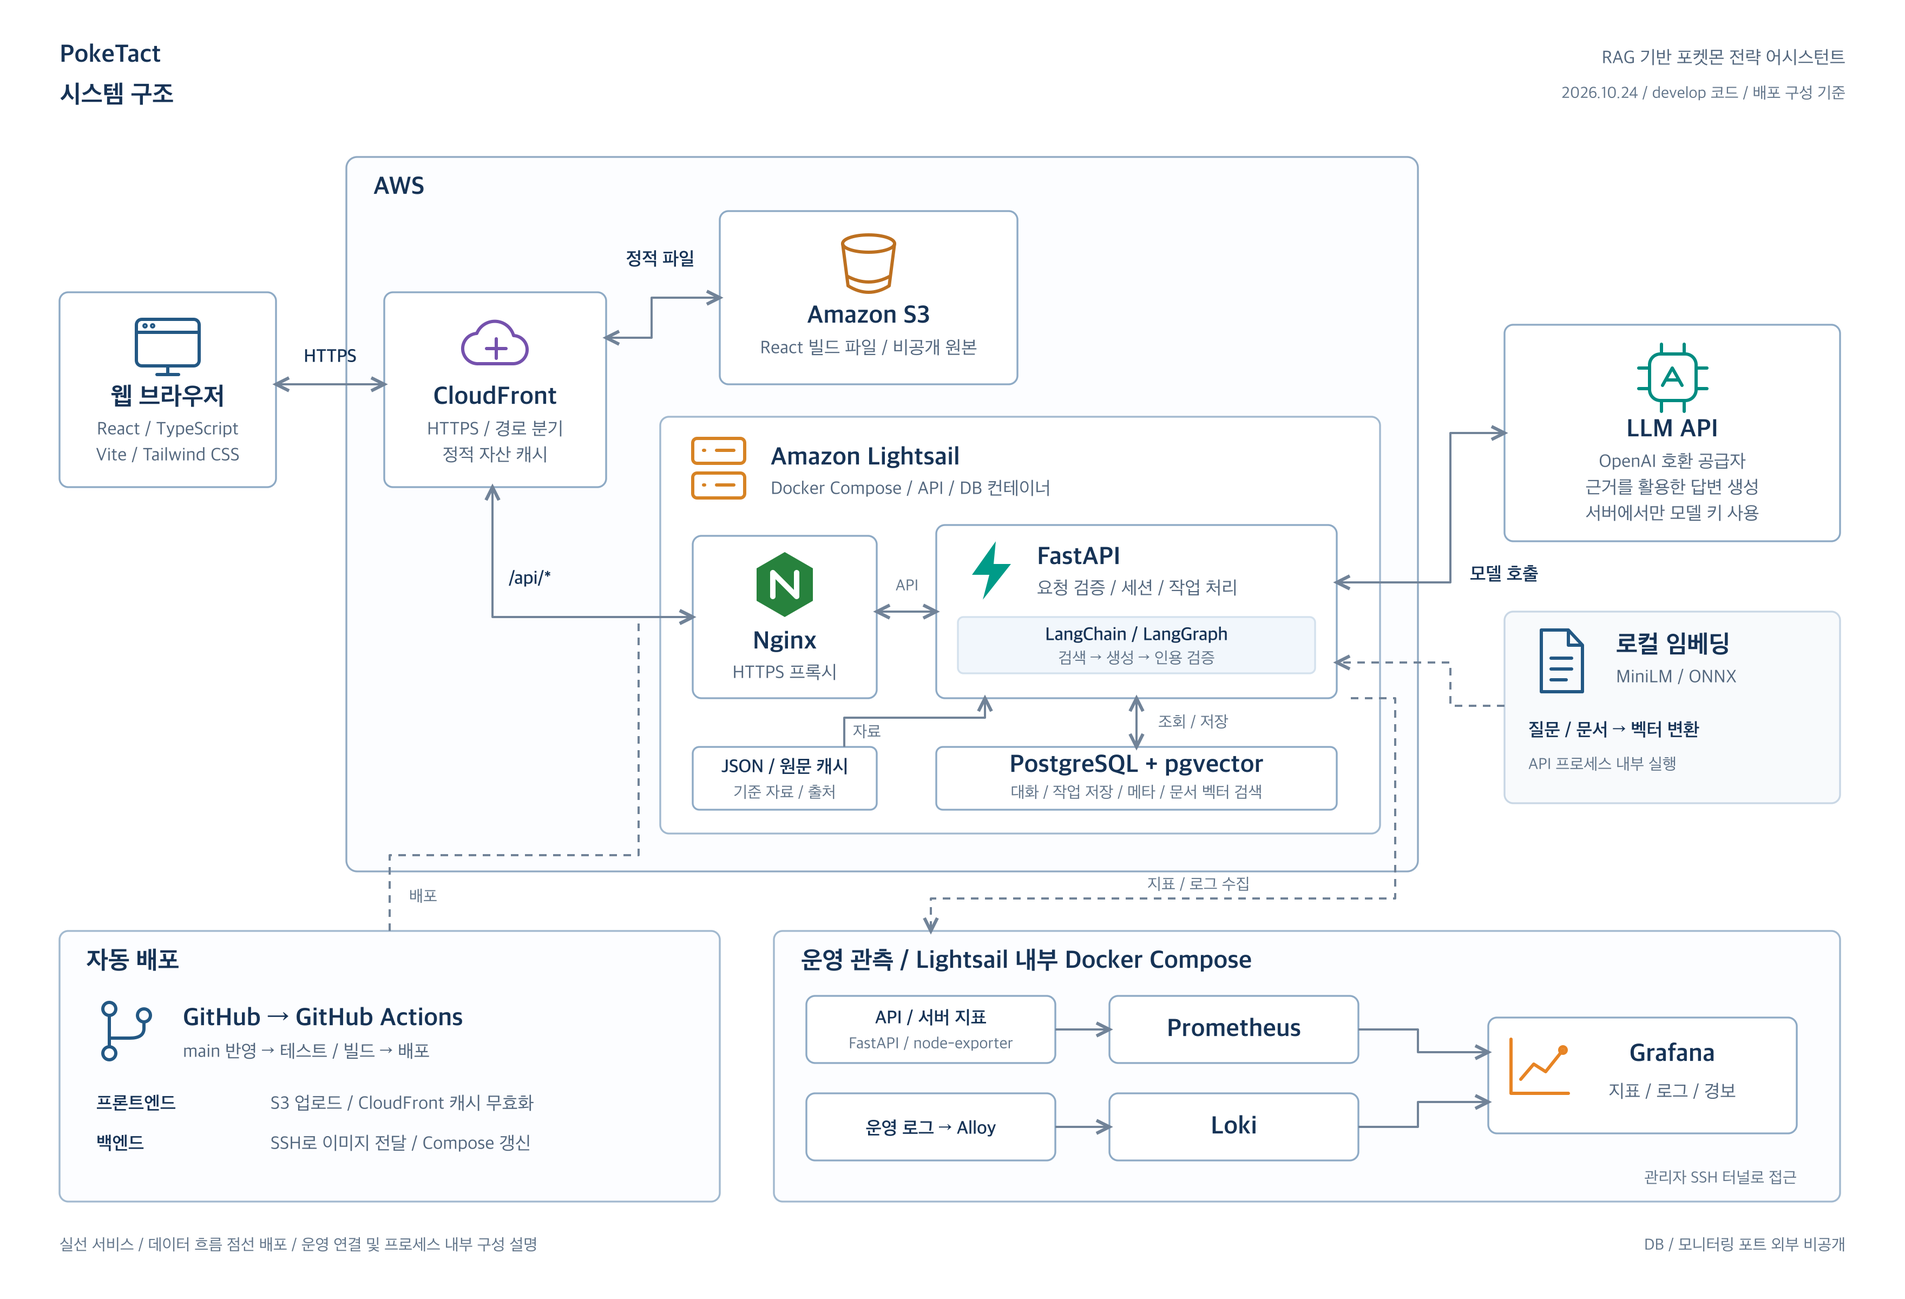
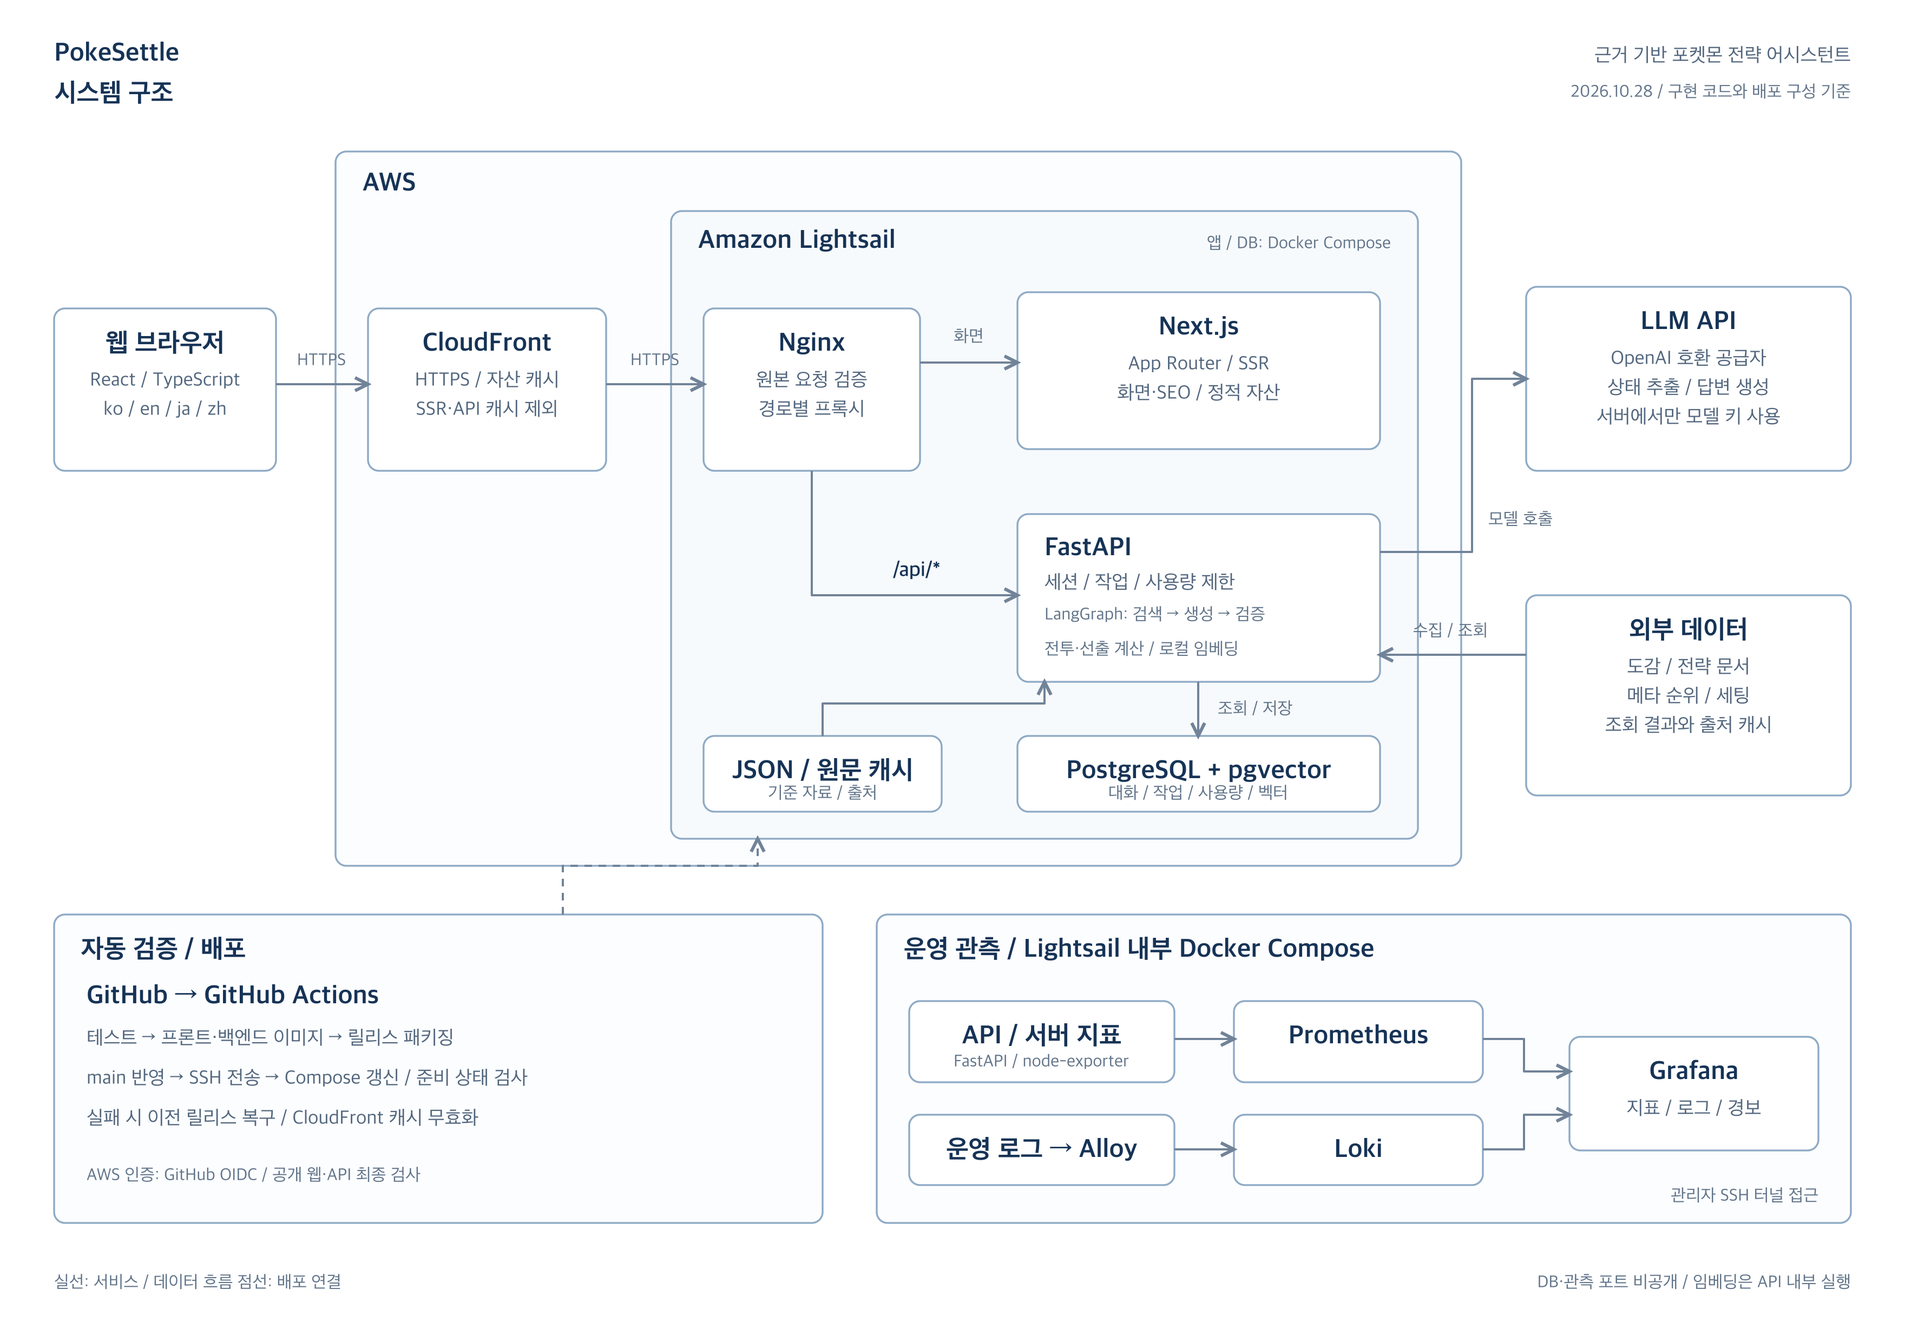
포트폴리오 PokeSettle 소개 및 운영 구조도 갱신

diff --git a/website/index.html b/website/index.html
@@ -3,7 +3,7 @@
   <head>
     <meta charset="utf-8">
     <meta name="viewport" content="width=device-width, initial-scale=1">
-    <meta name="description" content="강현준의 개발 포트폴리오. PokeTact의 근거 기반 AI 챗봇과 실서비스 운영, Jiki 백엔드의 정산 정합성과 성능 개선, 다잡아 프론트엔드의 사용자 경험 개선.">
+    <meta name="description" content="강현준의 개발 포트폴리오. PokeSettle의 근거 기반 AI 챗봇과 실서비스 운영, Jiki 백엔드의 정산 정합성과 성능 개선, 다잡아 프론트엔드의 사용자 경험 개선.">
     <meta name="theme-color" content="#ffffff">
     <title>강현준 | 개발 포트폴리오</title>
     <link rel="icon" href="assets/favicon.svg?v=87214e178c6b" type="image/svg+xml">
@@ -18,7 +18,7 @@
       <div class="w-[min(1120px,calc(100%_-_40px))] h-full mx-auto grid grid-cols-[1fr_minmax(0,540px)_1fr] items-center gap-6 compact:grid-cols-[auto_minmax(0,1fr)] compact:gap-5 compact:w-[calc(100%_-_40px)] small:gap-3">
         <a class="focus-visible:outline-2 focus-visible:outline-accent focus-visible:outline-offset-4 [-webkit-tap-highlight-color:transparent] transition-[color,background-color] duration-[180ms] hover:underline hover:underline-offset-4 justify-self-start text-ink text-[18px] font-[750] whitespace-nowrap compact:text-[16px] small:text-[15px]" href="#top">강현준</a>
         <nav aria-label="프로젝트 바로가기" class="grid grid-cols-3 h-full min-w-0 small:grid-cols-[1.4fr_.7fr_.8fr]">
-          <a href="#poketact" class="focus-visible:outline-2 focus-visible:outline-accent focus-visible:outline-offset-4 [-webkit-tap-highlight-color:transparent] transition-[color,background-color] duration-[180ms] relative flex items-center justify-center my-[7px] rounded-lg text-label text-[15px] font-[550] whitespace-nowrap no-underline hover:bg-surface hover:text-ink aria-[current=location]:text-ink aria-[current=location]:font-bold after:content-[''] after:absolute after:-bottom-[7px] after:w-8 after:h-0.5 after:rounded-sm after:bg-accent after:opacity-0 after:transition-opacity after:duration-[180ms] aria-[current=location]:after:opacity-100 compact:text-[14px] small:text-[12px]">PokeTact</a><a href="#jiki" class="focus-visible:outline-2 focus-visible:outline-accent focus-visible:outline-offset-4 [-webkit-tap-highlight-color:transparent] transition-[color,background-color] duration-[180ms] relative flex items-center justify-center my-[7px] rounded-lg text-label text-[15px] font-[550] whitespace-nowrap no-underline hover:bg-surface hover:text-ink aria-[current=location]:text-ink aria-[current=location]:font-bold after:content-[''] after:absolute after:-bottom-[7px] after:w-8 after:h-0.5 after:rounded-sm after:bg-accent after:opacity-0 after:transition-opacity after:duration-[180ms] aria-[current=location]:after:opacity-100 compact:text-[14px] small:text-[12px]">Jiki</a><a href="#dajoba" class="focus-visible:outline-2 focus-visible:outline-accent focus-visible:outline-offset-4 [-webkit-tap-highlight-color:transparent] transition-[color,background-color] duration-[180ms] relative flex items-center justify-center my-[7px] rounded-lg text-label text-[15px] font-[550] whitespace-nowrap no-underline hover:bg-surface hover:text-ink aria-[current=location]:text-ink aria-[current=location]:font-bold after:content-[''] after:absolute after:-bottom-[7px] after:w-8 after:h-0.5 after:rounded-sm after:bg-accent after:opacity-0 after:transition-opacity after:duration-[180ms] aria-[current=location]:after:opacity-100 compact:text-[14px] small:text-[12px]">다잡아</a>
+          <a href="#pokesettle" class="focus-visible:outline-2 focus-visible:outline-accent focus-visible:outline-offset-4 [-webkit-tap-highlight-color:transparent] transition-[color,background-color] duration-[180ms] relative flex items-center justify-center my-[7px] rounded-lg text-label text-[15px] font-[550] whitespace-nowrap no-underline hover:bg-surface hover:text-ink aria-[current=location]:text-ink aria-[current=location]:font-bold after:content-[''] after:absolute after:-bottom-[7px] after:w-8 after:h-0.5 after:rounded-sm after:bg-accent after:opacity-0 after:transition-opacity after:duration-[180ms] aria-[current=location]:after:opacity-100 compact:text-[14px] small:text-[12px]">PokeSettle</a><a href="#jiki" class="focus-visible:outline-2 focus-visible:outline-accent focus-visible:outline-offset-4 [-webkit-tap-highlight-color:transparent] transition-[color,background-color] duration-[180ms] relative flex items-center justify-center my-[7px] rounded-lg text-label text-[15px] font-[550] whitespace-nowrap no-underline hover:bg-surface hover:text-ink aria-[current=location]:text-ink aria-[current=location]:font-bold after:content-[''] after:absolute after:-bottom-[7px] after:w-8 after:h-0.5 after:rounded-sm after:bg-accent after:opacity-0 after:transition-opacity after:duration-[180ms] aria-[current=location]:after:opacity-100 compact:text-[14px] small:text-[12px]">Jiki</a><a href="#dajoba" class="focus-visible:outline-2 focus-visible:outline-accent focus-visible:outline-offset-4 [-webkit-tap-highlight-color:transparent] transition-[color,background-color] duration-[180ms] relative flex items-center justify-center my-[7px] rounded-lg text-label text-[15px] font-[550] whitespace-nowrap no-underline hover:bg-surface hover:text-ink aria-[current=location]:text-ink aria-[current=location]:font-bold after:content-[''] after:absolute after:-bottom-[7px] after:w-8 after:h-0.5 after:rounded-sm after:bg-accent after:opacity-0 after:transition-opacity after:duration-[180ms] aria-[current=location]:after:opacity-100 compact:text-[14px] small:text-[12px]">다잡아</a>
         </nav>
         <a class="focus-visible:outline-2 focus-visible:outline-accent focus-visible:outline-offset-4 [-webkit-tap-highlight-color:transparent] transition-[color,background-color] duration-[180ms] justify-self-end px-[13px] py-1.5 rounded-lg bg-accent text-white text-[14px] font-[650] whitespace-nowrap hover:bg-accent-hover hover:no-underline compact:hidden" href="https://github.com/unfl1" target="_blank" rel="noopener noreferrer">GitHub ↗</a>
       </div>
@@ -28,24 +28,26 @@
         <h1 class="m-0 text-[clamp(32px,4vw,52px)] font-[750] tracking-[-.055em] leading-[1.25] text-ink">강현준 개발 포트폴리오</h1>
       </section>
       <div>
-<section class="pt-[clamp(40px,6vw,64px)] pb-[clamp(64px,8vw,96px)] border-t border-line print:break-before-page print:p-0 print:first:break-before-auto" id="poketact" aria-labelledby="poketact-title">
+<section class="pt-[clamp(40px,6vw,64px)] pb-[clamp(64px,8vw,96px)] border-t border-line print:break-before-page print:p-0 print:first:break-before-auto" id="pokesettle" aria-labelledby="pokesettle-title">
 <div>
-<h2 id="poketact-title" class="mb-6 text-accent text-[clamp(30px,3vw,40px)] leading-[1.3] font-[750] tracking-[-.055em]">PokeTact</h2>
-<p class="mb-6 px-7 py-6 rounded-2xl bg-surface text-[17px] font-[550] text-muted leading-[1.7] small:p-5 small:text-[16px]">문서 근거와 전투 계산을 연결한 포켓몬 전략 챗봇 운영 중</p>
+<h2 id="pokesettle-title" class="mb-6 text-accent text-[clamp(30px,3vw,40px)] leading-[1.3] font-[750] tracking-[-.055em]">PokeSettle</h2>
+<p class="mb-6 px-7 py-6 rounded-2xl bg-surface text-[17px] font-[550] text-muted leading-[1.7] small:p-5 small:text-[16px]">문서 근거와 전투 계산을 연결한 포켓몬 전략 챗봇 PokeSettle 운영 중</p>
 <dl class="mb-10 text-[15px] small:text-[14px]">
 <div class="grid grid-cols-[80px_minmax(0,1fr)] gap-4 my-3 small:grid-cols-[65px_minmax(0,1fr)] small:gap-3"><dt class="text-label font-[550]">담당 역할</dt><dd class="m-0">프론트엔드, 백엔드, RAG, 인프라 구성과 운영</dd></div>
-<div class="grid grid-cols-[80px_minmax(0,1fr)] gap-4 my-3 small:grid-cols-[65px_minmax(0,1fr)] small:gap-3"><dt class="text-label font-[550]">기술</dt><dd class="m-0">React, TypeScript, FastAPI, LangGraph, PostgreSQL(pgvector), Docker, AWS</dd></div>
-<div class="grid grid-cols-[80px_minmax(0,1fr)] gap-4 my-3 small:grid-cols-[65px_minmax(0,1fr)] small:gap-3"><dt class="text-label font-[550]">서비스</dt><dd class="m-0"><a href="https://www.chikorita.xyz/" target="_blank" rel="noopener noreferrer" class="focus-visible:outline-2 focus-visible:outline-accent focus-visible:outline-offset-4 [-webkit-tap-highlight-color:transparent] transition-[color,background-color] duration-[180ms] text-accent-hover no-underline hover:underline hover:underline-offset-4 inline-flex min-h-7 items-center font-[650]">PokeTact 바로가기 ↗</a></dd></div>
-<div class="grid grid-cols-[80px_minmax(0,1fr)] gap-4 my-3 small:grid-cols-[65px_minmax(0,1fr)] small:gap-3"><dt class="text-label font-[550]">저장소</dt><dd class="m-0"><a href="https://github.com/unfl1/poketact" target="_blank" rel="noopener noreferrer" class="focus-visible:outline-2 focus-visible:outline-accent focus-visible:outline-offset-4 [-webkit-tap-highlight-color:transparent] transition-[color,background-color] duration-[180ms] text-accent-hover no-underline hover:underline hover:underline-offset-4 inline-flex min-h-7 items-center font-[650]">GitHub ↗</a></dd></div>
+<div class="grid grid-cols-[80px_minmax(0,1fr)] gap-4 my-3 small:grid-cols-[65px_minmax(0,1fr)] small:gap-3"><dt class="text-label font-[550]">기술</dt><dd class="m-0">Next.js, TypeScript, Tailwind CSS, FastAPI, LangGraph, PostgreSQL(pgvector), Docker, AWS</dd></div>
+<div class="grid grid-cols-[80px_minmax(0,1fr)] gap-4 my-3 small:grid-cols-[65px_minmax(0,1fr)] small:gap-3"><dt class="text-label font-[550]">서비스</dt><dd class="m-0"><a href="https://www.pokesettle.com/" target="_blank" rel="noopener noreferrer" class="focus-visible:outline-2 focus-visible:outline-accent focus-visible:outline-offset-4 [-webkit-tap-highlight-color:transparent] transition-[color,background-color] duration-[180ms] text-accent-hover no-underline hover:underline hover:underline-offset-4 inline-flex min-h-7 items-center font-[650]">PokeSettle 바로가기 ↗</a></dd></div>
+<div class="grid grid-cols-[80px_minmax(0,1fr)] gap-4 my-3 small:grid-cols-[65px_minmax(0,1fr)] small:gap-3"><dt class="text-label font-[550]">저장소</dt><dd class="m-0"><a href="https://github.com/unfl1/pokesettle" target="_blank" rel="noopener noreferrer" class="focus-visible:outline-2 focus-visible:outline-accent focus-visible:outline-offset-4 [-webkit-tap-highlight-color:transparent] transition-[color,background-color] duration-[180ms] text-accent-hover no-underline hover:underline hover:underline-offset-4 inline-flex min-h-7 items-center font-[650]">GitHub ↗</a></dd></div>
 </dl>
 </div>
 <div>
 <section class="mb-10"><h3 class="text-[clamp(22px,2vw,26px)] font-[720] text-ink tracking-[-.04em] mb-6 leading-[1.4]">시스템 구조</h3>
-<button class="focus-visible:outline-2 focus-visible:outline-accent focus-visible:outline-offset-4 [-webkit-tap-highlight-color:transparent] group relative block w-full overflow-hidden border border-line rounded-2xl bg-white pt-4 px-4 pb-[42px] cursor-zoom-in text-muted transition-[border-color,box-shadow] duration-[180ms] hover:border-[#b4cef3] hover:shadow-[0_8px_24px_rgb(35_42_52/0.06)] small:pt-2 small:px-2 small:pb-9 small:rounded-xl print:p-0 print:border-0" type="button" data-image="assets/poketact/system-architecture.png?v=11a918e1435b" aria-label="CloudFront와 S3, Lightsail의 FastAPI와 PostgreSQL, RAG, 자동 배포 및 Grafana 운영 관측 구조 크게 보기"><img src="assets/poketact/system-architecture.png?v=11a918e1435b" alt="CloudFront와 S3, Lightsail의 FastAPI와 PostgreSQL, RAG, 자동 배포 및 Grafana 운영 관측 구조" width="3520" height="2400" loading="lazy" class="max-w-full block w-full h-auto"><span class="absolute right-4 bottom-2.5 text-[12px] font-[550] group-hover:text-accent-hover small:right-3 small:bottom-2 print:hidden">그림 크게 보기<span aria-hidden="true">↗</span></span></button></section>
+<button class="focus-visible:outline-2 focus-visible:outline-accent focus-visible:outline-offset-4 [-webkit-tap-highlight-color:transparent] group relative block w-full overflow-hidden border border-line rounded-2xl bg-white pt-4 px-4 pb-[42px] cursor-zoom-in text-muted transition-[border-color,box-shadow] duration-[180ms] hover:border-[#b4cef3] hover:shadow-[0_8px_24px_rgb(35_42_52/0.06)] small:pt-2 small:px-2 small:pb-9 small:rounded-xl print:p-0 print:border-0" type="button" data-image="assets/poketact/system-architecture.png?v=11a918e1435b" aria-label="CloudFront와 Lightsail의 Nginx, Next.js, FastAPI, PostgreSQL 및 RAG와 자동 배포 구조 크게 보기"><img src="assets/poketact/system-architecture.png?v=11a918e1435b" alt="CloudFront와 Lightsail의 Nginx, Next.js, FastAPI, PostgreSQL 및 RAG와 자동 배포 구조" width="3520" height="2480" loading="lazy" class="max-w-full block w-full h-auto"><span class="absolute right-4 bottom-2.5 text-[12px] font-[550] group-hover:text-accent-hover small:right-3 small:bottom-2 print:hidden">그림 크게 보기<span aria-hidden="true">↗</span></span></button></section>
 <section class="mb-12"><h3 class="text-[clamp(22px,2vw,26px)] font-[720] text-ink tracking-[-.04em] mb-6 leading-[1.4]">핵심 기능</h3><ul class="m-0 pl-0 list-none">
 <li class="my-[9px] text-[16px] text-muted">근거 기반 챗봇 - 포켓몬 전략 질문, 대화별 전투 상태와 기록 복원, 실제 인용 자료 확인</li>
 <li class="my-[9px] text-[16px] text-muted">도감과 자연어 탐색 - 총 1,351개 항목의 타입, 종족값, 특성, 기술 조회와 조건 검색</li>
 <li class="my-[9px] text-[16px] text-muted">전투 시나리오 - 양쪽 팀 구성, 6대6의 3마리 선출 20개 조합 비교, 일반 타입 기반 공격, 교체 분석과 제한 조건의 참조 데미지 계산</li>
+<li class="my-[9px] text-[16px] text-muted">메타 순위 - 시즌별 사용 순위와 기술, 특성, 도구 세팅 조회 및 외부 자료 대기 안내</li>
+<li class="my-[9px] text-[16px] text-muted">다국어 화면 - 한국어, 영어, 일본어, 중국어 경로와 페이지별 검색 메타데이터 제공</li>
 </ul></section>
 <section><h3 class="text-[clamp(22px,2vw,26px)] font-[720] text-ink tracking-[-.04em] mb-6 leading-[1.4]">문제 해결과 실서비스 운영</h3>
 <article class="pt-8 pb-6 border-t border-line"><h3 class="text-[clamp(20px,2vw,26px)] font-[720] text-ink tracking-[-.04em] leading-[1.45] mb-7">1. 검색 근거와 인용 검증으로 답변의 출처 추적</h3><div class="grid gap-4">
@@ -62,6 +64,7 @@
 </ul></section>
 <section class="min-w-0 px-7 py-6 rounded-2xl bg-surface small:p-5 print:break-inside-avoid"><h4 class="text-[17px] font-[750] text-ink mb-3.5">결과</h4><ul class="m-0 list-disc pl-[1.25em]">
 <li class="my-[9px] text-muted leading-[1.8] marker:text-muted marker:text-[.8em] first:mt-0 last:mb-0">기본 1,025종과 별도 폼 326개로 총 1,351개 도감 항목 구성. 질문에서 사용한 근거는 원문 링크로 확인</li>
+<li class="my-[9px] text-muted leading-[1.8] marker:text-muted marker:text-[.8em] first:mt-0 last:mb-0">전투와 3마리 선출 답변은 추천 행동, 이유, 조건부 대안 순으로 구성하고 한계와 인용 출처는 마지막에 표시</li>
 <li class="my-[9px] text-muted leading-[1.8] marker:text-muted marker:text-[.8em] first:mt-0 last:mb-0">검색 범위 필터, 중복 제거, 허위 인용 거부, 교정 실패 후 유보, MMR 적용 시 선택 메타 보존을 회귀 테스트로 검증</li>
 <li class="my-[9px] text-muted leading-[1.8] marker:text-muted marker:text-[.8em] first:mt-0 last:mb-0">인용 ID의 유효성 검사와 답변 내용의 정확성 검증을 구분. 현행 게임 적격성과 미검증 전투 정보는 확정하지 않도록 처리</li>
 </ul></section>
@@ -93,13 +96,13 @@
 <section class="min-w-0 px-7 py-6 rounded-2xl bg-surface small:p-5 print:break-inside-avoid"><h4 class="text-[17px] font-[750] text-ink mb-3.5">해결</h4><ul class="m-0 list-disc pl-[1.25em]">
 <li class="my-[9px] text-muted leading-[1.8] marker:text-muted marker:text-[.8em] first:mt-0 last:mb-0">세션과 IP별 속도, 일일 접수량, 동시 작업 수를 함께 제한하고, IP와 세션은 HMAC 식별자로 집계</li>
 <li class="my-[9px] text-muted leading-[1.8] marker:text-muted marker:text-[.8em] first:mt-0 last:mb-0">입력, 최대 출력, 재시도에 필요한 사용량을 호출 전에 예약하고 PostgreSQL 트랜잭션 잠금 안에서 한도 검사와 차감 수행</li>
-<li class="my-[9px] text-muted leading-[1.8] marker:text-muted marker:text-[.8em] first:mt-0 last:mb-0">집계를 DB에 보관해 재시작 후에도 유지. 결과가 불명확한 실패는 예약을 환급하지 않고 DB 장애 시 모델 호출 차단</li>
+<li class="my-[9px] text-muted leading-[1.8] marker:text-muted marker:text-[.8em] first:mt-0 last:mb-0">공급자가 반환한 사용량을 검증해 실제 토큰으로 정산하고 남은 예약량 반환. 사용량을 확인할 수 없는 호출은 예약을 유지하고 DB 장애 시 모델 호출 차단</li>
 <li class="my-[9px] text-muted leading-[1.8] marker:text-muted marker:text-[.8em] first:mt-0 last:mb-0">요청 ID가 같은 재전송은 기존 작업을 반환하고, 전체 한도 도달 후에도 모델을 사용하지 않는 기본 도감 조회 제공</li>
 </ul></section>
 <section class="min-w-0 px-7 py-6 rounded-2xl bg-surface small:p-5 print:break-inside-avoid"><h4 class="text-[17px] font-[750] text-ink mb-3.5">결과</h4><ul class="m-0 list-disc pl-[1.25em]">
 <li class="my-[9px] text-muted leading-[1.8] marker:text-muted marker:text-[.8em] first:mt-0 last:mb-0">동시 예약 테스트에서 예산 100에 25씩 예약한 12개 요청 중 4개만 허용하고, 재시작 후 추가 예약 차단을 검증</li>
 <li class="my-[9px] text-muted leading-[1.8] marker:text-muted marker:text-[.8em] first:mt-0 last:mb-0">한도 직전 전체 호출 예약 실패 시 공급자에 요청이 전달되지 않는지, 세션 재발급, 만료, DB 장애에서도 제한이 유지되는지 회귀 테스트로 확인</li>
-<li class="my-[9px] text-muted leading-[1.8] marker:text-muted marker:text-[.8em] first:mt-0 last:mb-0">보수적 예약 토큰과 공급자 호출 수를 기준으로 제한하며 실제 사용 토큰이나 달러 청구액의 상한을 보장하지는 않음</li>
+<li class="my-[9px] text-muted leading-[1.8] marker:text-muted marker:text-[.8em] first:mt-0 last:mb-0">공급자 보고 토큰으로 정산하고 불명확한 호출은 예약량을 유지. 토큰 예산과 실제 달러 청구액을 구분해 관리</li>
 </ul></section>
 </div></article>
 </section>
